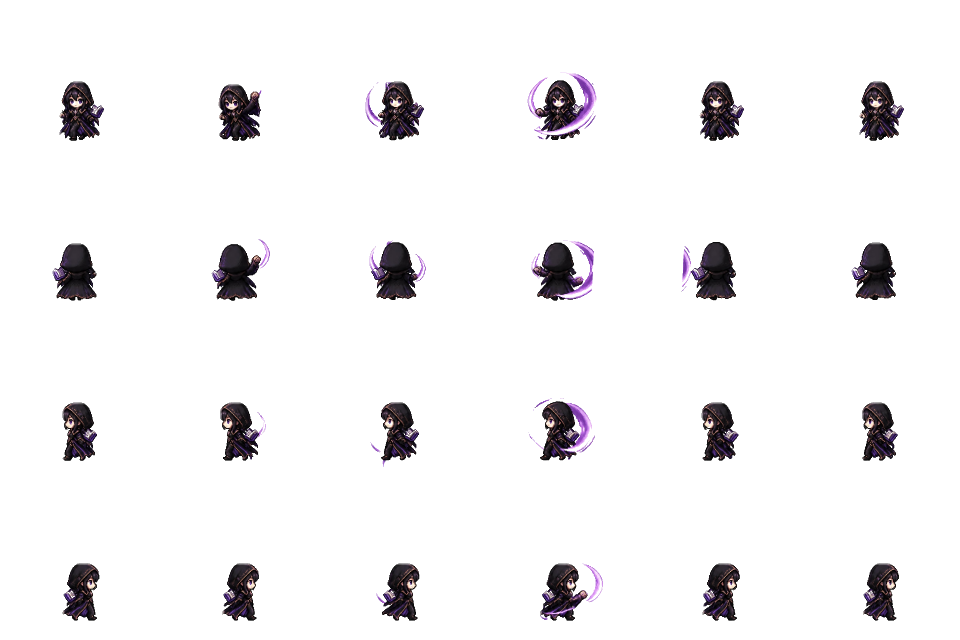
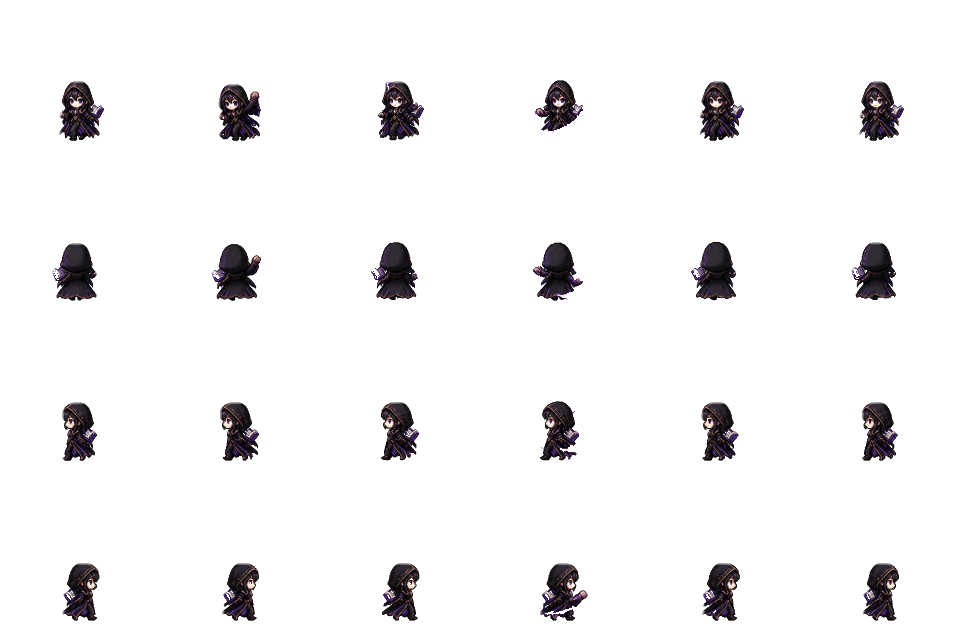
Basic-attack sprites (owner): the effects painted into the attack frames covered the character. Void Scribe: build-player stripGlow (erase bright saturated painted glow + its fringe) and bodyOnly (keep the character's shape per cell) on atk1 / atk2, finisher = the clean atk2 thrust. Lumen Oracle: th

diff --git a/tools/build-player.js b/tools/build-player.js
@@ -204,8 +204,10 @@ const VS = 'desgin/class cr/AW/VS/';
 PRESETS.vs = { out: 'assets/player/vs', nearestBody: true, sheets: {
   walk: [VS + 'WALK 1.PNG', 4],
   idle: [VS + 'WALK 2', 4],
-  atk1: [VS + 'ATK 1', 4],
-  atk2: [VS + 'ATK2', 4],
+  // basic attacks: the purple arcs painted into these frames covered the character (owner) -> stripped; the game's own
+  // chain VFX shows the attack (the combo finisher reuses the clean atk2)
+  atk1: [VS + 'ATK 1', 4, { stripGlow: {}, bodyOnly: {} }],
+  atk2: [VS + 'ATK2', 4, { stripGlow: {}, bodyOnly: {} }],
   dash: [VS + 'DASH', 4],
   hit: [VS + 'HIT', 4],
   sk1: [VS + 'SK1', 4],
@@ -699,6 +701,53 @@ function componentFrames(img, y0, y1, xs, n = COLS, opts = {}) {
 }
 
 const [CW, CH] = STD.canvas, [PX, PY] = STD.pivot;
+// stripGlow { max, sat, fringe }: erase the effect glow PAINTED into a sheet (bright + saturated pixels) and its soft
+// edge — for basic-attack sheets whose painted arcs cover the character (the game draws its own VFX for the attack).
+// Only for art whose body has (almost) no bright saturated pixels (measure first: walk frames ≈ 10 px vs arcs 100-600).
+function stripGlow(img, { max = 170, sat = 70, fringe = 2 } = {}) {
+  const { width: w, height: h, data: d } = img;
+  const glow = (i) => { const mx = Math.max(d[i], d[i + 1], d[i + 2]), mn = Math.min(d[i], d[i + 1], d[i + 2]); return [mx, mx - mn]; };
+  let kill = new Uint8Array(w * h);
+  for (let p = 0; p < w * h; p++) { const i = p * 4; if (d[i + 3] < 40) continue; const [mx, s] = glow(i); if (mx > max && s > sat) kill[p] = 1; }
+  // the arc's soft edge: translucent or lighter tinted pixels touching what was erased
+  for (let k = 0; k < fringe; k++) {
+    const next = kill.slice();
+    for (let y = 1; y < h - 1; y++) for (let x = 1; x < w - 1; x++) {
+      const p = y * w + x, i = p * 4;
+      if (kill[p] || d[i + 3] === 0) continue;
+      if (!(kill[p - 1] || kill[p + 1] || kill[p - w] || kill[p + w])) continue;
+      const [mx, s] = glow(i);
+      if (d[i + 3] < 200 || (mx > 110 && s > 45)) next[p] = 1;
+    }
+    kill = next;
+  }
+  for (let p = 0; p < w * h; p++) if (kill[p]) d[p * 4 + 3] = 0;
+}
+// bodyOnly: in every CW × CH cell keep only the largest connected shape (the character) and pieces touching it within
+// `reach` px — the dark outline specks an erased arc leaves behind are dropped
+function bodyOnly(img, { reach = 1, minKeep = 0 } = {}) {
+  const { width: W, data: d } = img, cols = img.width / CW, rows = img.height / CH;
+  for (let r = 0; r < rows; r++) for (let c = 0; c < cols; c++) {
+    const x0 = c * CW, y0 = r * CH, lab = new Int32Array(CW * CH).fill(-1), sizes = [];
+    const on = (x, y) => d[((y0 + y) * W + x0 + x) * 4 + 3] > 40;
+    for (let p = 0; p < CW * CH; p++) {
+      if (lab[p] >= 0 || !on(p % CW, (p / CW) | 0)) continue;
+      const id = sizes.length, st = [p]; lab[p] = id; let n = 0;
+      while (st.length) {
+        const q = st.pop(), qx = q % CW, qy = (q / CW) | 0; n++;
+        for (let dy = -reach; dy <= reach; dy++) for (let dx = -reach; dx <= reach; dx++) {
+          const nx = qx + dx, ny = qy + dy, rr = ny * CW + nx;
+          if (nx >= 0 && ny >= 0 && nx < CW && ny < CH && lab[rr] < 0 && on(nx, ny)) { lab[rr] = id; st.push(rr); }
+        }
+      }
+      sizes.push(n);
+    }
+    if (!sizes.length) continue;
+    const big = sizes.indexOf(Math.max(...sizes));
+    const drop = (id) => id >= 0 && id !== big && !(minKeep > 0 && sizes[id] >= minKeep);
+    for (let p = 0; p < CW * CH; p++) if (drop(lab[p])) d[((y0 + ((p / CW) | 0)) * W + x0 + (p % CW)) * 4 + 3] = 0;
+  }
+}
 function buildPreset(key) {
 const { out: outRel, sheets: SHEETS, facing: FACING, nearestBody, bg, edgeFade, splitFeather, cutFeather } = PRESETS[key];
 FEATHER = cutFeather || 4;
@@ -759,6 +808,8 @@ for (const [name, [file, rows, opt = {}]] of Object.entries(SHEETS)) {
     const a = ((base + 2) * CH + y) * sheet.width * 4 + c * CW * 4, b = ((base + 3) * CH + y) * sheet.width * 4 + c * CW * 4;
     const tmp = Buffer.from(sheet.data.subarray(a, a + CW * 4)); sheet.data.copy(sheet.data, a, b, b + CW * 4); tmp.copy(sheet.data, b);
   }
+  if (opt.stripGlow) stripGlow(sheet, opt.stripGlow);
+  if (opt.bodyOnly) bodyOnly(sheet, opt.bodyOnly);
   png.write(path.join(OUT, name + '.png'), sheet);
   const sides = [];
   const face = opt.facing || FACING; // per-sheet facing override > preset facing > detected

diff --git a/src/skills/lumenOracle.js b/src/skills/lumenOracle.js
@@ -24,9 +24,11 @@ export const LO_ANIMS = {
   idle: { sheet: 'walk', cols: [0] },
   walk: { sheet: 'walk', cols: [0, 1, 2, 3, 4, 5], fps: 9, loop: true, bob: 1 },
   run: { sheet: 'walk', cols: [0, 1, 2, 3, 4, 5], fps: 13, loop: true, bob: 1 },
-  atk1: { sheet: 'atk1', cols: [1, 2, 3, 4], hit: [3] },
-  atk2: { sheet: 'atk2', cols: [1, 2, 3, 4], hit: [3] },
-  atk3: { sheet: 'sk1', cols: [1, 2, 3, 4], hit: [3] },
+  // basic combo = only frames WITHOUT painted light (owner: the painted orb / swirl covered the character); col 2 is the
+  // staff thrust without its painted orb — the game's own light bolt leaves from the staff tip there
+  atk1: { sheet: 'atk1', cols: [1, 2, 2, 5], hit: [2] },
+  atk2: { sheet: 'atk2', cols: [1, 2, 2, 5], hit: [2] },
+  atk3: { sheet: 'atk1', cols: [1, 2, 2, 2, 5], hit: [2] }, // finisher: the clean thrust held longer (SK1 is all painted light)
   dodge: { sheet: 'dash', cols: [1, 2] },
   lumenBolt: { sheet: 'sk1', cols: [1, 2, 3, 4], hit: [3] },
   grace: { sheet: 'sk2', cols: [1, 2, 3, 4], hit: [3] },

diff --git a/src/skills/voidScribe.js b/src/skills/voidScribe.js
@@ -25,7 +25,7 @@ export const VS_ANIMS = {
   run: { sheet: 'walk', cols: [0, 1, 2, 3, 4, 5], fps: 13, loop: true },
   atk1: { sheet: 'atk1', cols: [1, 2, 3, 4], hit: [3] },
   atk2: { sheet: 'atk2', cols: [1, 2, 3, 4], hit: [3] },
-  atk3: { sheet: 'sk2', cols: [1, 2, 3], hit: [3] },
+  atk3: { sheet: 'atk2', cols: [1, 2, 3, 3, 4], hit: [3] }, // finisher: the clean ATK2 thrust held longer (SK2's release pose holds a painted orb)
   dodge: { sheet: 'dash', cols: [1, 2] },
   voidScript: { sheet: 'sk1', cols: [1, 2, 3, 4], hit: [3] },
   sableMark: { sheet: 'sk2', cols: [1, 2, 3, 5], hit: [3] },

diff --git a/CLAUDE.md b/CLAUDE.md
@@ -250,7 +250,11 @@ Push to GitHub (`origin` = github.com/jepzaze6665-dev/EO-ver0.1, branch `main`) 
   decal / blast did not line up); summon sprite visuals draw ONE steady frame (lean + glow while acting, no flicker).
   CAST TIMING (owner: the bolt left before the throw pose): SM / VS / LO anims name their RELEASE column `hit: [col]` and every
   basic / skill event fires while it shows (frame at t = cols[floor(t / dur × n)]); tools/tests/castTiming.test.mjs checks every
-  class that has `hit` data. VS basics keep the chain strip (owner). LESSON for new VFX: measure each strip's content box (bbox) and anchor standing effects by their
+  class that has `hit` data. VS basics keep the chain strip (owner).
+  PAINTED EFFECTS in basic-attack sprites covered the character (owner): build-player sheet options `stripGlow { max, sat,
+  fringe }` (erase bright saturated painted glow — only where the body has ~none: measure first) + `bodyOnly { reach, minKeep }`
+  (keep the largest shape per cell) on VS atk1 / atk2; VS finisher = the clean atk2 held longer. LO's glow is pale like its face
+  / robe, so its combo uses only clean columns (col 2 = the staff thrust without the painted orb; finisher = atk1 thrust held). LESSON for new VFX: measure each strip's content box (bbox) and anchor standing effects by their
   base (center y = ground - (y1 - 0.5) × h), rings / orbs by their centre.
   Done AW3 = LUMEN ORACLE (`src/skills/lumenOracle.js`, preset 'lo' (no idle sheet), VFX set 'lo': lo_bolt / lo_grace (SK2 row 4) /
   lo_thread / lo_purify / lo_barrier / lo_spike / lo_lance (SK6(2)) / lo_judgment (SK7 row 4), recentred): resource LUMEN (tier
